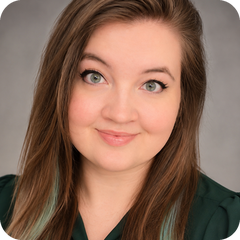
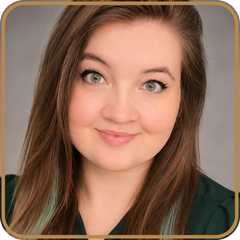
Add files via upload

Changed region(s): [[0.0, 0.0, 1.0, 1.0]]

diff --git a/jessica/index.html b/jessica/index.html
@@ -1,0 +1,102 @@
+<!DOCTYPE html>
+<html lang="en">
+<head>
+<meta charset="utf-8">
+<meta name="viewport" content="width=device-width, initial-scale=1, viewport-fit=cover">
+<title>Jessica Krueger – Craven Consulting</title>
+<meta name="description" content="Bookkeeper and Tax Preparer at Craven Consulting.">
+<meta property="og:title" content="Jessica Krueger – Craven Consulting">
+<meta property="og:description" content="Bookkeeper, Tax Preparer">
+<meta name="theme-color" content="#1b4237">
+<link rel="preconnect" href="https://fonts.googleapis.com">
+<link rel="preconnect" href="https://fonts.gstatic.com" crossorigin>
+<link href="https://fonts.googleapis.com/css2?family=Jost:wght@400;500;600&display=swap" rel="stylesheet">
+<style>
+  :root { --em: #1b4237; --gold: #b8874d; --gold-text: #8f6534; --cream: #f1eddc; --line: #e2dbc3; --ink: #2b3a35; }
+  * { box-sizing: border-box; }
+  body { margin: 0; background: var(--cream); font-family: 'Jost', Arial, Helvetica, sans-serif; color: var(--ink); -webkit-font-smoothing: antialiased; }
+  .card { max-width: 440px; margin: 0 auto; min-height: 100vh; background: #fff; padding-bottom: calc(32px + env(safe-area-inset-bottom, 0px)); }
+  @media (min-width: 480px) { body { padding: 32px 16px; } .card { min-height: 0; border-radius: 18px; overflow: hidden; border: 1px solid var(--line); } }
+  .header { height: 150px; background: var(--em) url('../images/card-header.jpg') center / cover no-repeat; }
+  .photo { display: block; width: 132px; height: 132px; margin: -70px auto 0; position: relative; }
+  .who { text-align: center; padding: 14px 24px 0; }
+  h1 { font-size: 28px; font-weight: 500; color: var(--em); margin: 0; letter-spacing: 0.2px; }
+  .title { font-size: 17px; margin: 4px 0 0; }
+  .firm { font-size: 16px; color: var(--gold-text); font-style: italic; margin: 2px 0 0; }
+  .actions { padding: 24px 24px 0; display: grid; gap: 10px; }
+  .btn { display: flex; align-items: center; justify-content: center; gap: 10px; min-height: 50px; border-radius: 10px; font-size: 16px; font-weight: 500; text-decoration: none; border: 1px solid var(--line); color: var(--em); background: #fff; }
+  .btn svg { width: 20px; height: 20px; flex: none; }
+  .btn.primary { background: var(--em); color: var(--cream); border-color: var(--gold); }
+  .btn:focus-visible { outline: 3px solid var(--gold); outline-offset: 2px; }
+  .pair { display: grid; grid-template-columns: 1fr 1fr; gap: 10px; }
+  .details { margin: 22px 24px 0; padding-top: 18px; border-top: 1px solid var(--line); font-size: 15px; line-height: 1.9; }
+  .details a { color: var(--em); text-decoration: none; }
+  .details span { color: var(--gold-text); display: inline-block; width: 64px; }
+  .share { margin: 22px 24px 0; padding: 20px; background: var(--cream); border-radius: 14px; text-align: center; }
+  .share p { margin: 0 0 14px; font-size: 15px; color: var(--em); }
+  #qr { display: inline-block; padding: 12px; background: #fff; border-radius: 10px; border: 1px solid var(--line); line-height: 0; }
+  #qr img, #qr canvas { width: 180px !important; height: 180px !important; }
+  .share button { display: block; margin: 14px auto 0; font: inherit; font-size: 14px; color: var(--gold-text); background: none; border: 0; text-decoration: underline; text-underline-offset: 3px; cursor: pointer; }
+  .logo { display: block; width: 150px; margin: 26px auto 0; }
+</style>
+</head>
+<body>
+<main class="card">
+  <div class="header" role="img" aria-label="Craven Consulting pattern"></div>
+  <img class="photo" src="../images/headshot.png" alt="Jessica Krueger" width="132" height="132">
+
+  <div class="who">
+    <h1>Jessica Krueger</h1>
+    <p class="title">Bookkeeper, Tax Preparer</p>
+    <p class="firm">Craven Consulting</p>
+  </div>
+
+  <div class="actions">
+    <a class="btn primary" href="../jessica-krueger.vcf" download="Jessica Krueger.vcf">
+      <svg viewBox="0 0 24 24" fill="none" stroke="currentColor" stroke-width="1.8" stroke-linecap="round" stroke-linejoin="round" aria-hidden="true"><circle cx="9" cy="8" r="4"/><path d="M2 21c0-4 3-6 7-6s7 2 7 6"/><path d="M19 8v6M16 11h6"/></svg>
+      Save contact
+    </a>
+    <div class="pair">
+      <a class="btn" href="tel:+12106502740">
+        <svg viewBox="0 0 24 24" fill="none" stroke="currentColor" stroke-width="1.8" stroke-linecap="round" stroke-linejoin="round" aria-hidden="true"><path d="M5 4h4l2 5-2.5 1.5a11 11 0 0 0 5 5L15 13l5 2v4a2 2 0 0 1-2 2A16 16 0 0 1 3 6a2 2 0 0 1 2-2"/></svg>
+        Call
+      </a>
+      <a class="btn" href="mailto:jessica@craven.consulting">
+        <svg viewBox="0 0 24 24" fill="none" stroke="currentColor" stroke-width="1.8" stroke-linecap="round" stroke-linejoin="round" aria-hidden="true"><rect x="3" y="5" width="18" height="14" rx="2"/><path d="m3 7 9 6 9-6"/></svg>
+        Email
+      </a>
+    </div>
+    <div class="pair">
+      <a class="btn" href="https://elidacravencpa.taxdome.com/">Client Portal</a>
+      <a class="btn" href="https://calendly.com/elidacpa/consulting-consultation">Book a Call</a>
+    </div>
+  </div>
+
+  <div class="details">
+    <div><span>Email</span><a href="mailto:jessica@craven.consulting">jessica@craven.consulting</a></div>
+    <div><span>Phone</span><a href="tel:+12106502740">+1 210 650 2740</a></div>
+  </div>
+
+  <div class="share">
+    <p>Scan to save my contact</p>
+    <div id="qr" aria-label="QR code linking to this card"></div>
+    <button type="button" id="dl">Download QR code</button>
+  </div>
+
+  <img class="logo" src="../images/craven-logo.png" alt="Craven Consulting">
+</main>
+
+<script src="https://cdnjs.cloudflare.com/ajax/libs/qrcodejs/1.0.0/qrcode.min.js"></script>
+<script>
+  var url = location.href.split('#')[0].split('?')[0];
+  var qr = new QRCode(document.getElementById('qr'), { text: url, width: 720, height: 720, colorDark: '#1b4237', colorLight: '#ffffff', correctLevel: QRCode.CorrectLevel.M });
+  document.getElementById('dl').addEventListener('click', function () {
+    var c = document.querySelector('#qr canvas');
+    var a = document.createElement('a');
+    a.href = c ? c.toDataURL('image/png') : document.querySelector('#qr img').src;
+    a.download = 'Jessica-Krueger-QR.png';
+    document.body.appendChild(a); a.click(); a.remove();
+  });
+</script>
+</body>
+</html>

diff --git a/signature.html b/signature.html
@@ -27,13 +27,16 @@
 <div id="sig">
 <table cellpadding="0" cellspacing="0" border="0" width="460" style="width:460px;border-collapse:separate;border:1px solid #d9d2b8;border-radius:12px;background-color:#ffffff;font-family:Arial,Helvetica,sans-serif;" bgcolor="#ffffff">
   <tr>
-    <td style="padding:16px 0 0 16px;vertical-align:top;" width="120" valign="top">
+    <td colspan="2" style="padding:0;line-height:0;font-size:0;"><img src="images/accent-strip.png" width="458" height="12" alt="" style="display:block;width:458px;height:12px;border:0;"></td>
+  </tr>
+  <tr>
+    <td style="padding:14px 0 0 16px;vertical-align:top;" width="120" valign="top">
       <img src="images/headshot.png" width="110" height="110" alt="Jessica Krueger" style="display:block;width:110px;height:110px;border:0;">
     </td>
-    <td style="padding:20px 16px 0 16px;vertical-align:middle;" valign="middle">
+    <td style="padding:18px 16px 0 16px;vertical-align:middle;" valign="middle">
       <div style="font-size:20px;line-height:24px;font-weight:bold;color:#1b4237;margin:0;">Jessica Krueger</div>
       <div style="font-size:14px;line-height:20px;color:#333333;margin:4px 0 0;">Bookkeeper, Tax Preparer</div>
-      <div style="font-size:14px;line-height:20px;font-style:italic;color:#b8874d;margin:2px 0 0;">Craven Consulting</div>
+      <div style="font-size:14px;line-height:20px;font-style:italic;color:#a8773f;margin:2px 0 0;">Craven Consulting</div>
     </td>
   </tr>
   <tr>
@@ -52,12 +55,15 @@
     <td colspan="2" style="padding:16px 16px 16px 16px;">
       <table cellpadding="0" cellspacing="0" border="0" width="100%" style="border-collapse:collapse;border-top:1px solid #e6e0c8;">
         <tr>
-          <td style="padding:14px 0 0 0;vertical-align:middle;" valign="middle"><img src="images/craven-logo.png" width="150" height="30" alt="Craven Consulting" style="display:block;width:150px;height:30px;border:0;"></td>
-          <td align="right" style="padding:14px 0 0 0;vertical-align:middle;" valign="middle">
+          <td style="padding:14px 0 0 0;vertical-align:middle;" valign="middle"><img src="images/craven-logo.png" width="130" height="26" alt="Craven Consulting" style="display:block;width:130px;height:26px;border:0;"></td>
+          <td align="right" style="padding:14px 0 0 0;vertical-align:middle;font-size:13px;white-space:nowrap;" valign="middle">
+            <a href="https://elidacravencpa.taxdome.com/" style="color:#a8773f;text-decoration:none;">Client Portal</a><span style="color:#d9d2b8;">&nbsp;&nbsp;|&nbsp;&nbsp;</span><a href="https://calendly.com/elidacpa/consulting-consultation" style="color:#a8773f;text-decoration:none;">Book a Call</a>
+          </td>
+          <td align="right" width="1" style="padding:14px 0 0 14px;vertical-align:middle;" valign="middle">
             <table cellpadding="0" cellspacing="0" border="0" style="border-collapse:separate;">
               <tr>
-                <td bgcolor="#1b4237" style="background-color:#1b4237;border:1px solid #b8874d;border-radius:5px;padding:8px 16px;">
-                  <a href="jessica-krueger.vcf" style="color:#f1eddc;font-size:13px;text-decoration:none;font-family:Arial,Helvetica,sans-serif;">Save contact</a>
+                <td bgcolor="#1b4237" style="background-color:#1b4237;border:1px solid #b8874d;border-radius:5px;padding:8px 14px;white-space:nowrap;">
+                  <a href="jessica/" style="color:#f1eddc;font-size:13px;text-decoration:none;font-family:Arial,Helvetica,sans-serif;">Save contact</a>
                 </td>
               </tr>
             </table>
@@ -65,6 +71,11 @@
         </tr>
       </table>
     </td>
+  </tr>
+</table>
+<table cellpadding="0" cellspacing="0" border="0" width="460" style="width:460px;border-collapse:collapse;">
+  <tr>
+    <td style="padding:12px 0 0 0;"><img src="images/banner.png" width="460" height="84" alt="Holiday office closures: Thanksgiving November 26 to 27, Christmas December 24 to 31" style="display:block;width:460px;height:84px;border:0;"></td>
   </tr>
 </table>
 </div>
